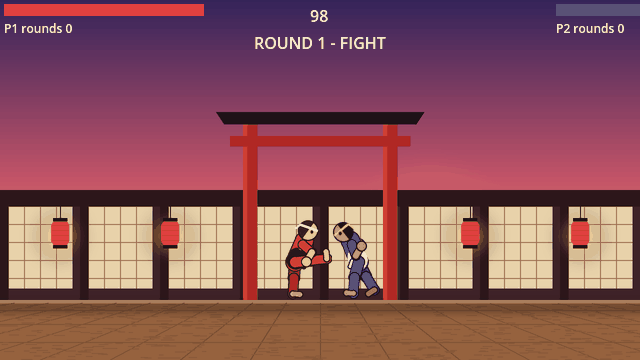
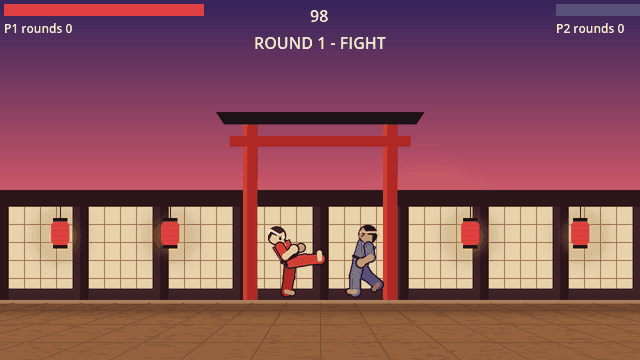
fix(games): quick clicks count, Enter in menus, Arena's fighters redrawn
Played in a browser, three things were broken:

- A brisk click or a tap was lost. The game reads its keys once a tick; a
  press released before the next tick was never seen, so on the site Chess
  picked no piece and Towers built nothing. Q now keeps the presses that
  come between two ticks for the next one (Q.sample_local()), and the
  lockstep and the rollback send them too.
- A menu chose nothing on Enter while the mouse rested off its buttons,
  which is where a click on the game to give it the keyboard leaves it. A
  new default action, click (the mouse button alone, sent and replayed like
  any other), tells a click from Enter: a click chooses what is under the
  pointer or nothing, Enter or the joypad's A the focused button.
- Arena's fighters read as broken: each bone had its own outline, the idle
  pose walked, the near arm crossed the chest and the belt was a blot. They
  are drawn as one silhouette per layer, in a guard with the fists up, with
  a belt across the waist; the page's screenshot follows.

Claude-Session: https://claude.ai/code/session_01FsrC3AZ9jmgbCn58YFQdGA

diff --git a/scripts/art/fighters.py b/scripts/art/fighters.py
@@ -1,9 +1,10 @@
 """Draws Arena's two fighters (projects/arena/assets/red.png, blue.png): 14 frames of 64x96.
 
-Each frame is a pose of one jointed figure: angles for the torso, the head, both
-arms and both legs, drawn at 4x as outlined rounded limbs and shrunk, so the two
-fighters and all their frames share one figure. Facing right; the runtime
-mirrors it. CC0, like everything this script draws.
+Each frame is a pose of one jointed figure, facing right (the runtime mirrors
+it). The figure is drawn as silhouettes, not as separate bones: the far arm
+and leg first, a shade darker, then the body, head, near leg and near arm,
+each layer with every outline under every fill, so the joints of a layer
+melt into one shape. Drawn at 4x and shrunk. CC0.
 
     python scripts/art/fighters.py
 """
@@ -15,117 +16,186 @@ S = 4                      # drawn at 4x
 W, H = 64, 96
 OUT = Path(__file__).resolve().parents[2] / 'projects' / 'arena' / 'assets'
 
-# lengths, in frame pixels
-THIGH, SHIN, FOOT = 16, 16, 7
-UPPER, FORE = 12, 11
-TORSO = 23
-HEAD = 9
+THIGH, SHIN = 15, 15
+UPPER, FORE = 11, 11
+TORSO = 21
 
+# A pose: the hip (frame pixels), the torso's lean (degrees, + leans back), the head's tilt,
+# each leg as (thigh, knee bend) and each arm as (upper arm, elbow bend), angles in degrees from
+# straight down, + towards the front (the right). A knee bends backwards, an elbow forwards.
 POSES = [
-    # name: hip (x, y), torso lean (deg from up), legs (thigh, shin) back/front from straight down
-    # (positive = forward), arms (upper, fore) back/front from straight down (positive = forward/up)
-    dict(n='idle',   hip=(30, 58), lean=6,  bt=-18, bs=-8,  ft=22, fs=-20, ba=(35, 110), fa=(55, 120), head=0),
-    dict(n='walk1',  hip=(31, 57), lean=8,  bt=-28, bs=-12, ft=30, fs=-10, ba=(40, 110), fa=(50, 125), head=0),
-    dict(n='walk2',  hip=(31, 58), lean=8,  bt=6,   bs=-24, ft=4,  fs=-30, ba=(30, 112), fa=(60, 118), head=0),
-    dict(n='jump',   hip=(32, 48), lean=10, bt=40,  bs=-95, ft=70,  fs=-100, ba=(70, 90), fa=(100, 70), head=-5),
-    dict(n='crouch', hip=(31, 72), lean=22, bt=-60, bs=95, ft=70, fs=-110, ba=(45, 100), fa=(65, 110), head=-10),
-    dict(n='block',  hip=(29, 58), lean=-4, bt=-16, bs=-10, ft=20, fs=-18, ba=(85, 150), fa=(100, 150), head=6),
-    dict(n='punch1', hip=(29, 58), lean=-2, bt=-20, bs=-8,  ft=22, fs=-18, ba=(70, 100), fa=(20, 140), head=0),
-    dict(n='punch2', hip=(33, 58), lean=14, bt=-30, bs=-4,  ft=26, fs=-16, ba=(30, 120), fa=(92, 0),   head=0),
-    dict(n='punch3', hip=(31, 58), lean=8,  bt=-22, bs=-8,  ft=24, fs=-18, ba=(40, 115), fa=(70, 60),  head=0),
-    dict(n='kick1',  hip=(29, 58), lean=-6, bt=-6,  bs=-4,  ft=85, fs=-95, ba=(30, 100), fa=(60, 110), head=0),
-    dict(n='kick2',  hip=(27, 58), lean=-24, bt=-4, bs=0,   ft=96, fs=0,   ba=(20, 90),  fa=(50, 100), head=4),
-    dict(n='kick3',  hip=(29, 58), lean=-8, bt=-8,  bs=-4,  ft=60, fs=-60, ba=(30, 100), fa=(55, 110), head=0),
-    dict(n='hit',    hip=(27, 58), lean=-22, bt=-26, bs=-6, ft=16, fs=-12, ba=(-30, 40), fa=(-20, 50), head=-18),
-    dict(n='ko',     hip=(29, 90), lean=22, bt=150, bs=-105, ft=138, fs=-95, ba=(-5, 0), fa=(20, 0), head=12),
+    dict(n='idle',   hip=(30, 58), lean=4,   head=0,  back=(-24, 22), front=(26, 18), barm=(70, 95), farm=(55, 110)),
+    dict(n='walk1',  hip=(31, 57), lean=6,   head=0,  back=(-30, 30), front=(30, 6),  barm=(72, 95), farm=(52, 112)),
+    dict(n='walk2',  hip=(31, 58), lean=6,   head=0,  back=(-8, 34),  front=(12, 30), barm=(66, 98), farm=(60, 105)),
+    dict(n='jump',   hip=(32, 46), lean=8,   head=-4, back=(30, 100), front=(70, 110), barm=(80, 80), farm=(95, 70)),
+    dict(n='crouch', hip=(30, 74), lean=16,  head=-6, back=(-40, 110), front=(75, 115), barm=(75, 95), farm=(65, 105)),
+    dict(n='block',  hip=(28, 58), lean=-6,  head=8,  back=(-26, 20), front=(20, 20), barm=(110, 120), farm=(95, 130)),
+    dict(n='punch1', hip=(29, 58), lean=-2,  head=0,  back=(-26, 22), front=(24, 18), barm=(70, 100), farm=(40, 130)),
+    dict(n='punch2', hip=(32, 58), lean=-14, head=0,  back=(-34, 14), front=(30, 10), barm=(40, 110), farm=(92, 0)),
+    dict(n='punch3', hip=(30, 58), lean=-6,  head=0,  back=(-28, 18), front=(26, 14), barm=(55, 100), farm=(80, 50)),
+    dict(n='kick1',  hip=(28, 58), lean=4,   head=0,  back=(-6, 10),  front=(80, 120), barm=(70, 95), farm=(50, 110)),
+    dict(n='kick2',  hip=(22, 58), lean=26,  head=4,  back=(-4, 6),   front=(98, 4),   barm=(40, 80), farm=(30, 100)),
+    dict(n='kick3',  hip=(28, 58), lean=8,   head=0,  back=(-8, 10),  front=(60, 70),  barm=(60, 95), farm=(45, 105)),
+    dict(n='hit',    hip=(27, 58), lean=24,  head=-22, back=(-30, 20), front=(14, 14), barm=(-30, 60), farm=(-10, 70)),
+    dict(n='ko',     hip=(22, 88), lean=40,  head=24, back=(140, 70), front=(125, 60), barm=(-20, 10), farm=(10, 20)),
 ]
 
 PALETTES = {
-    'red':  dict(gi=(214, 58, 50), gi_dark=(150, 34, 34), belt=(40, 32, 30), skin=(236, 188, 150),
-                 hair=(52, 36, 30), band=(250, 240, 230), outline=(36, 22, 26)),
-    'blue': dict(gi=(58, 112, 214), gi_dark=(36, 70, 150), belt=(240, 236, 220), skin=(196, 140, 104),
-                 hair=(24, 22, 30), band=(250, 210, 60), outline=(18, 22, 40)),
+    'red':  dict(gi=(218, 60, 50), shade=(160, 38, 36), belt=(34, 28, 28), skin=(240, 194, 156),
+                 skin_shade=(206, 156, 120), hair=(56, 38, 30), band=(250, 246, 240), outline=(32, 18, 24)),
+    'blue': dict(gi=(64, 120, 220), shade=(40, 78, 158), belt=(36, 30, 30), skin=(198, 142, 106),
+                 skin_shade=(160, 108, 78), hair=(24, 22, 30), band=(252, 212, 64), outline=(16, 20, 40)),
 }
 
 
-def point(origin, length, angle_deg):
-    """From origin, `length` along an angle measured from straight down, positive towards +x."""
-    a = math.radians(angle_deg)
+def at(origin, length, angle):
+    """From origin, `length` along `angle` degrees from straight down, + towards the right."""
+    a = math.radians(angle)
     return origin[0] + length * math.sin(a), origin[1] + length * math.cos(a)
 
 
-def limb(d, a, b, width, fill, outline):
+class Layer:
+    """Shapes drawn outline-first: every outline of the layer, then every fill."""
+
+    def __init__(self):
+        self.shapes = []
+
+    def capsule(self, a, b, width, fill):
+        self.shapes.append(('capsule', a, b, width, fill))
+
+    def disc(self, c, r, fill):
+        self.shapes.append(('disc', c, r, 0, fill))
+
+    def poly(self, pts, fill):
+        self.shapes.append(('poly', pts, None, 0, fill))
+
+    def draw(self, d, outline, line=1.3):
+        for pass_ in (0, 1):
+            for kind, a, b, w, fill in self.shapes:
+                grow = line if pass_ == 0 else 0
+                col = outline if pass_ == 0 else fill
+                if kind == 'capsule':
+                    _capsule(d, a, b, w + 2 * grow, col)
+                elif kind == 'disc':
+                    r = (b + grow) * S
+                    d.ellipse([a[0] * S - r, a[1] * S - r, a[0] * S + r, a[1] * S + r], fill=col)
+                else:
+                    pts = [(x * S, y * S) for x, y in a]
+                    if grow:
+                        cx = sum(p[0] for p in pts) / len(pts)
+                        cy = sum(p[1] for p in pts) / len(pts)
+                        pts2 = []
+                        for x, y in pts:
+                            dx, dy = x - cx, y - cy
+                            n = math.hypot(dx, dy) or 1
+                            pts2.append((x + dx / n * grow * S, y + dy / n * grow * S))
+                        pts = pts2
+                    d.polygon(pts, fill=col)
+
+
+def _capsule(d, a, b, width, col):
     a = (a[0] * S, a[1] * S)
     b = (b[0] * S, b[1] * S)
-    for w, col in ((width + 2.4, outline), (width, fill)):
-        r = w * S / 2
-        d.line([a, b], fill=col, width=int(w * S))
-        for p in (a, b):
-            d.ellipse([p[0] - r, p[1] - r, p[0] + r, p[1] + r], fill=col)
+    r = width * S / 2
+    d.line([a, b], fill=col, width=int(width * S))
+    for p in (a, b):
+        d.ellipse([p[0] - r, p[1] - r, p[0] + r, p[1] + r], fill=col)
 
 
 def frame(pose, pal):
     im = Image.new('RGBA', (W * S, H * S), (0, 0, 0, 0))
     d = ImageDraw.Draw(im)
-    o = pal['outline']
     hip = pose['hip']
-    lean = pose['lean']
-    neck = point(hip, TORSO, 180 + lean)           # up the torso
-    shoulder = point(hip, TORSO - 4, 180 + lean)
+    up = 180 + pose['lean']               # the torso's direction: up, its top leaning back when lean > 0
+    neck = at(hip, TORSO, up)
+    shoulder = at(hip, TORSO - 3, up)
+    shoulder_back = at(shoulder, 2.5, up - 90)
+    shoulder_front = at(shoulder, 2.5, up + 90)
 
-    def leg(thigh, shin, near):
-        knee = point(hip, THIGH, thigh)
-        ankle = point(knee, SHIN, thigh + shin)
-        toe = point(ankle, FOOT, thigh + shin + 90 if pose['n'] != 'ko' else thigh + shin + 90)
-        g = pal['gi'] if near else pal['gi_dark']
-        limb(d, hip, knee, 10, g, o)
-        limb(d, knee, ankle, 8.5, g, o)
-        limb(d, ankle, toe, 4.8, pal['skin'] if near else tuple(int(c * .85) for c in pal['skin']), o)
+    def leg(spec, shade):
+        thigh, bend = spec
+        knee = at(hip, THIGH, thigh)
+        ankle = at(knee, SHIN, thigh - bend)
+        heel_dir = thigh - bend + 90          # the foot points forward, square to the shin
+        toe = at(ankle, 6, heel_dir)
+        return knee, ankle, toe
 
-    def arm(upper, fore, near):
-        elbow = point(shoulder, UPPER, upper)
-        wrist = point(elbow, FORE, upper + fore - 180 if fore else upper)
-        g = pal['gi'] if near else pal['gi_dark']
-        skin = pal['skin'] if near else tuple(int(c * .85) for c in pal['skin'])
-        limb(d, shoulder, elbow, 8, g, o)
-        limb(d, elbow, wrist, 6, skin, o)
-        r = 4.2 * S
-        w = (wrist[0] * S, wrist[1] * S)
-        d.ellipse([w[0] - r - 1.2 * S, w[1] - r - 1.2 * S, w[0] + r + 1.2 * S, w[1] + r + 1.2 * S], fill=o)
-        d.ellipse([w[0] - r, w[1] - r, w[0] + r, w[1] + r], fill=skin)
+    def arm(spec, base):
+        upper, bend = spec
+        elbow = at(base, UPPER, upper)
+        hand = at(elbow, FORE, upper + bend if bend else upper)
+        return elbow, hand
 
-    arm(*pose['ba'], near=False)
-    leg(pose['bt'], pose['bs'], near=False)
-    # the torso: a thick rounded limb, the gi, a belt across the hip
-    limb(d, hip, neck, 17, pal['gi'], o)
-    # the belt: a band round the waist, its knot hanging in front
-    limb(d, point(hip, 2, 180 + lean), point(hip, 5, 180 + lean), 16.5, pal['belt'], pal['belt'])
-    knot = point(point(hip, 3.5, 180 + lean), 6, 90 + lean)
-    limb(d, knot, point(knot, 6, 20), 2.6, pal['belt'], o)
-    # the gi's opening: a skin V at the chest
-    chest = point(hip, TORSO - 7, 180 + lean)
-    limb(d, chest, point(chest, 5, 180 + lean), 3.2, pal['skin'], pal['skin'])
-    leg(pose['ft'], pose['fs'], near=True)
-    # head: a circle with hair on the back, a headband, an eye looking forward
-    head = point(neck, HEAD + 2, 180 + lean + pose['head'])
+    # --- the far side: arm and leg, a shade darker ---
+    far = Layer()
+    knee, ankle, toe = leg(pose['back'], True)
+    far.capsule(hip, knee, 10, pal['shade'])
+    far.capsule(knee, ankle, 9, pal['shade'])
+    far.capsule(ankle, toe, 4.5, pal['skin_shade'])
+    elbow, hand = arm(pose['barm'], shoulder_back)
+    far.capsule(shoulder_back, elbow, 7.5, pal['shade'])
+    far.capsule(elbow, hand, 6, pal['skin_shade'])
+    far.disc(hand, 3.6, pal['skin_shade'])
+    far.draw(d, pal['outline'])
+
+    # --- the body: torso, belt, head, near leg ---
+    body = Layer()
+    waist_l, waist_r = at(hip, 6.5, up - 90), at(hip, 6.5, up + 90)
+    chest_l, chest_r = at(shoulder, 8.5, up - 90), at(shoulder, 8.5, up + 90)
+    body.poly([waist_l, chest_l, at(chest_l, 2, up), at(chest_r, 2, up), chest_r, waist_r], pal['gi'])
+    nknee, nankle, ntoe = leg(pose['front'], False)
+    body.capsule(hip, nknee, 10.5, pal['gi'])
+    body.capsule(nknee, nankle, 9.5, pal['gi'])
+    body.capsule(nankle, ntoe, 4.8, pal['skin'])
+    tilt = up + pose['head']
+    head = at(neck, 8.5, tilt)
+    body.capsule(neck, at(neck, 3, tilt), 6, pal['skin'])    # the neck
+    body.disc(head, 8.2, pal['skin'])
+    body.draw(d, pal['outline'])
+    # details on the body, no outline: the gi's lapels, the belt across the waist, its knot
+    o = pal['outline']
+    lap = at(shoulder, 1, up)
+    v1, v2 = at(lap, 4, up - 90), at(lap, 4, up + 90)
+    v3 = at(hip, 8, up)
+    d.polygon([(v1[0] * S, v1[1] * S), (v2[0] * S, v2[1] * S), (v3[0] * S, v3[1] * S)], fill=pal['skin'])
+    d.line([(v2[0] * S, v2[1] * S), (v3[0] * S, v3[1] * S)], fill=pal['shade'], width=int(1.2 * S))
+    b1, b2 = at(at(hip, 3.2, up), 7.2, up - 90), at(at(hip, 3.2, up), 7.2, up + 90)
+    _capsule(d, b1, b2, 3.4, pal['belt'])
+    knot = at(at(hip, 3.2, up), 3, up + 90)
+    _capsule(d, knot, at(knot, 5, 15), 1.8, pal['belt'])
+    _capsule(d, knot, at(knot, 4.5, -10), 1.8, pal['belt'])
+    # the head: hair on top and at the back, the headband with its tails, an eye and a brow
     hx, hy = head[0] * S, head[1] * S
-    r = HEAD * S
-    d.ellipse([hx - r - 1.2 * S, hy - r - 1.2 * S, hx + r + 1.2 * S, hy + r + 1.2 * S], fill=o)
-    d.ellipse([hx - r, hy - r, hx + r, hy + r], fill=pal['skin'])
-    d.pieslice([hx - r, hy - r, hx + r, hy + r], 150 + lean, 330 + lean, fill=pal['hair'])
-    tilt = math.radians(lean + pose['head'])
-    bx, by = hx - math.sin(tilt) * r * .35, hy - math.cos(tilt) * r * .35
-    d.line([(bx - r * math.cos(tilt), by + r * math.sin(tilt)), (bx + r * math.cos(tilt), by - r * math.sin(tilt))],
-           fill=pal['band'], width=int(2.6 * S))
-    tail = (bx - r * math.cos(tilt), by + r * math.sin(tilt))
-    d.line([tail, (tail[0] - 5 * S, tail[1] + 4 * S)], fill=pal['band'], width=int(2 * S))
-    ex, ey = hx + r * .45 * math.cos(tilt), hy + r * .15
-    if pose['n'] in ('ko',):
-        d.line([(ex - 2 * S, ey - 2 * S), (ex + 2 * S, ey + 2 * S)], fill=o, width=S)
-        d.line([(ex - 2 * S, ey + 2 * S), (ex + 2 * S, ey - 2 * S)], fill=o, width=S)
+    r = 8.2 * S
+    t = math.radians(tilt - 180)                     # 0 when upright
+    d.pieslice([hx - r, hy - r, hx + r, hy + r], 180 + math.degrees(t) - 10, 360 + math.degrees(t) - 60, fill=pal['hair'])
+    d.chord([hx - r, hy - r, hx + r, hy + r], 120 + math.degrees(t), 230 + math.degrees(t), fill=pal['hair'])
+    band_y = -2.2
+    bl = (hx + (-r) * math.cos(t) - band_y * S * math.sin(t), hy + (-r) * math.sin(t) + band_y * S * math.cos(t))
+    br = (hx + r * math.cos(t) - band_y * S * math.sin(t), hy + r * math.sin(t) + band_y * S * math.cos(t))
+    d.line([bl, br], fill=pal['band'], width=int(2.6 * S))
+    d.line([bl, (bl[0] - 5 * S, bl[1] + 3 * S)], fill=pal['band'], width=int(1.8 * S))
+    d.line([bl, (bl[0] - 4 * S, bl[1] + 6 * S)], fill=pal['band'], width=int(1.6 * S))
+    ex = hx + 4.6 * S * math.cos(t) - 0.6 * S * math.sin(t)
+    ey = hy + 4.6 * S * math.sin(t) + 0.6 * S * math.cos(t)
+    if pose['n'] in ('ko', 'hit'):
+        for s1, s2 in ((-1, -1), (-1, 1)):
+            d.line([(ex - 1.6 * S, ey + s1 * 1.6 * S), (ex + 1.6 * S, ey - s1 * s2 * 1.6 * S)], fill=o, width=int(0.9 * S))
     else:
-        d.ellipse([ex - 1.3 * S, ey - 1.6 * S, ex + 1.3 * S, ey + 1.6 * S], fill=o)
-    arm(*pose['fa'], near=True)
+        d.ellipse([ex - 1.1 * S, ey - 1.5 * S, ex + 1.1 * S, ey + 1.5 * S], fill=o)
+        d.line([(ex - 2 * S, ey - 2.6 * S), (ex + 1.6 * S, ey - 2.2 * S)], fill=o, width=int(0.9 * S))
+    # a nose at the front of the face
+    nx = hx + 8.2 * S * math.cos(t)
+    ny = hy + 8.2 * S * math.sin(t) + 1.5 * S
+    d.ellipse([nx - 1.4 * S, ny - 1.2 * S, nx + 0.8 * S, ny + 1.2 * S], fill=pal['skin'])
+
+    # --- the near arm, over everything ---
+    near = Layer()
+    elbow, hand = arm(pose['farm'], shoulder_front)
+    near.capsule(shoulder_front, elbow, 8, pal['gi'])
+    near.capsule(elbow, hand, 6.5, pal['skin'])
+    near.disc(hand, 4.2, pal['skin'])
+    near.draw(d, pal['outline'])
     return im.resize((W, H), Image.LANCZOS)
 
 

diff --git a/tests/godot/test_godot_menu.py b/tests/godot/test_godot_menu.py
@@ -74,12 +74,16 @@ def test_a_shown_button_once_its_condition_holds(godot, project):
 def test_the_pointer_focuses_and_a_click_chooses_what_is_under_it(godot, project):
     # the buttons are stacked around the scene's centre (160, 120); find the first one from the top
     for y in range(80, 130, 4):
-        scene, s = run(project, 20, [('select', 10, 12)], [(3, 160, y)])
+        scene, s = run(project, 20, [('select', 10, 12), ('click', 10, 12)], [(3, 160, y)])
         if s.get('clicks') == 1:
             break
     else:
         pytest.fail('no click on the first button between y=80 and y=130')
     assert s['menus'] == [0]
     # a click where there is no button chooses nothing, whatever has the focus
-    _, s = run(project, 20, [('select', 10, 12)], [(3, 10, 10)])
+    _, s = run(project, 20, [('select', 10, 12), ('click', 10, 12)], [(3, 10, 10)])
     assert s['clicks'] == 0
+    # but Enter chooses the focused button wherever the pointer rests: a page clicked to give the game
+    # the keyboard leaves the pointer off the buttons
+    _, s = run(project, 20, [('select', 10, 12)], [(3, 10, 10)])
+    assert s['clicks'] == 1

diff --git a/quantum/runtime/godot/schema.py b/quantum/runtime/godot/schema.py
@@ -251,8 +251,10 @@ TAGS: Dict[str, Tag] = {
         parents=('scene',)),
     'menu': Tag(
         'A list of buttons (and text fields) over the scene. A player moves through it with up/down and '
-        'chooses with select (Enter, a click, the joypad\'s A), or points at a button with the mouse — the '
-        'pointer is that player\'s qg:cursor, so a click is replayed and travels in the lockstep like a key.',
+        'chooses with select (Enter, the joypad\'s A: the button that has the focus), or points at a button '
+        'with the mouse and clicks it (a click away from the buttons chooses nothing) — the pointer is that '
+        'player\'s qg:cursor and the click its "click" action, so a click is replayed and travels in the '
+        'lockstep like a key.',
         {'player': Attr('int', 1, doc='whose keys and pointer choose'),
          'if': Attr('expr', None, doc='shown, and choosable, only while this is true: paused(), a q:set...'),
          'position': Attr('enum:top-left|top-center|top-right|center|bottom-center', 'center'),

diff --git a/tests/godot/test_godot_creeps.py b/tests/godot/test_godot_creeps.py
@@ -44,12 +44,16 @@ def test_the_title_waits_for_the_start_key(godot, project):
 
 def test_the_start_button_is_clicked_like_the_demos(godot, project):
     from quantum.runtime.godot_replay import cursor_at
-    tape = tape_from_holds([('select', 8, 10)])
+    click = [('select', 8, 10), ('click', 8, 10)]
+    tape = tape_from_holds(click)
     cursor_at(tape, 3, 240, 680)       # the Start button, at the bottom of the screen
     assert list(replay(project, 14, tape=tape)) == ['play']
-    tape = tape_from_holds([('select', 8, 10)])
+    tape = tape_from_holds(click)
     cursor_at(tape, 3, 240, 100)       # the title text: no button there
     assert list(replay(project, 14, tape=tape)) == ['title']
+    tape = tape_from_holds([('select', 8, 10)])
+    cursor_at(tape, 3, 240, 100)       # Enter, the pointer resting on the title text: the focused Start
+    assert list(replay(project, 14, tape=tape)) == ['play']
 
 
 def test_get_ready_then_creeps_from_the_border_and_a_point_a_second(godot, project):

diff --git a/tests/godot/test_godot_compiler.py b/tests/godot/test_godot_compiler.py
@@ -1122,7 +1122,8 @@ class TestWhatTowersAsked:
         data = json.loads((out / 'game.json').read_text())
         assert data['inputs']['buy'] == ['1', {'mouse_button': 2}]
         assert data['inputs']['select'] == ['Enter', {'mouse_button': 1}, {'joy_button': 0, 'device': 0}]
-        assert data['actions'] == ['left', 'right', 'up', 'down', 'jump', 'select', 'cancel', 'buy']
+        assert data['inputs']['click'] == [{'mouse_button': 1}]      # the mouse button alone: a menu's click
+        assert data['actions'] == ['left', 'right', 'up', 'down', 'jump', 'select', 'cancel', 'click', 'buy']
         assert set(data['scenes']['main']['on_input']) == {'buy', 'select'}
         err = refuse(tmp_path, game('  <qg:scene name="main"><qg:on-input action="fire"><q:set name="x" value="1" /></qg:on-input></qg:scene>\n'))
         assert '<qg:on-input action="fire">: no such action' in str(err)

diff --git a/quantum/runtime/godot/compiler.py b/quantum/runtime/godot/compiler.py
@@ -30,6 +30,8 @@ DEFAULT_INPUTS = {
     'jump': ['Space', 'Z', 'X', 'JoyA'],
     'select': ['Enter', 'MouseLeft', 'JoyA'],
     'cancel': ['Escape', 'MouseRight', 'JoyB'],
+    # the mouse button alone: a menu tells a click (what is under the pointer) from Enter (what has the focus)
+    'click': ['MouseLeft'],
 }
 MOUSE_BUTTONS = {'MouseLeft': 1, 'MouseRight': 2, 'MouseMiddle': 3}
 

diff --git a/CHANGELOG.md b/CHANGELOG.md
@@ -76,6 +76,20 @@ alter the behaviour of an existing app is listed under **Breaking**.
 
 ### Fixed
 
+- Laboratory: a quick click or tap was lost: the game reads its keys once a
+  tick, and a press released before the next tick was never seen — on the
+  site, Chess picked no piece and Towers built nothing for a brisk click.
+  `Q` keeps the presses that come between two ticks for the next one, the
+  lockstep and the rollback send them too (`Q.sample_local()`).
+- Laboratory: a menu chose nothing on Enter while the mouse rested off its
+  buttons (clicking the game to give it the keyboard leaves it there). A
+  new default action, `click` (the mouse button alone), tells a click from
+  Enter: a click chooses what is under the pointer, or nothing; Enter, or
+  the joypad's A, chooses the focused button.
+- Laboratory: Arena's fighters are drawn again, as one silhouette each
+  instead of separately outlined bones, in a guard with the fists up: they
+  read as fighters, and which way each faces.
+
 - Laboratory: Chess on one machine: black could not move. The board took
   black's click only from player 2's select, which no key presses on a
   single machine; now on one machine the same pointer plays both colours,

diff --git a/docs/targets/games.md b/docs/targets/games.md
@@ -504,7 +504,7 @@ Goes inside: `qg:hud`.
 
 ### `qg:menu`
 
-A list of buttons (and text fields) over the scene. A player moves through it with up/down and chooses with select (Enter, a click, the joypad's A), or points at a button with the mouse — the pointer is that player's qg:cursor, so a click is replayed and travels in the lockstep like a key.
+A list of buttons (and text fields) over the scene. A player moves through it with up/down and chooses with select (Enter, the joypad's A: the button that has the focus), or points at a button with the mouse and clicks it (a click away from the buttons chooses nothing) — the pointer is that player's qg:cursor and the click its "click" action, so a click is replayed and travels in the lockstep like a key.
 
 | Attribute | Type | Default | Meaning |
 |---|---|---|---|
